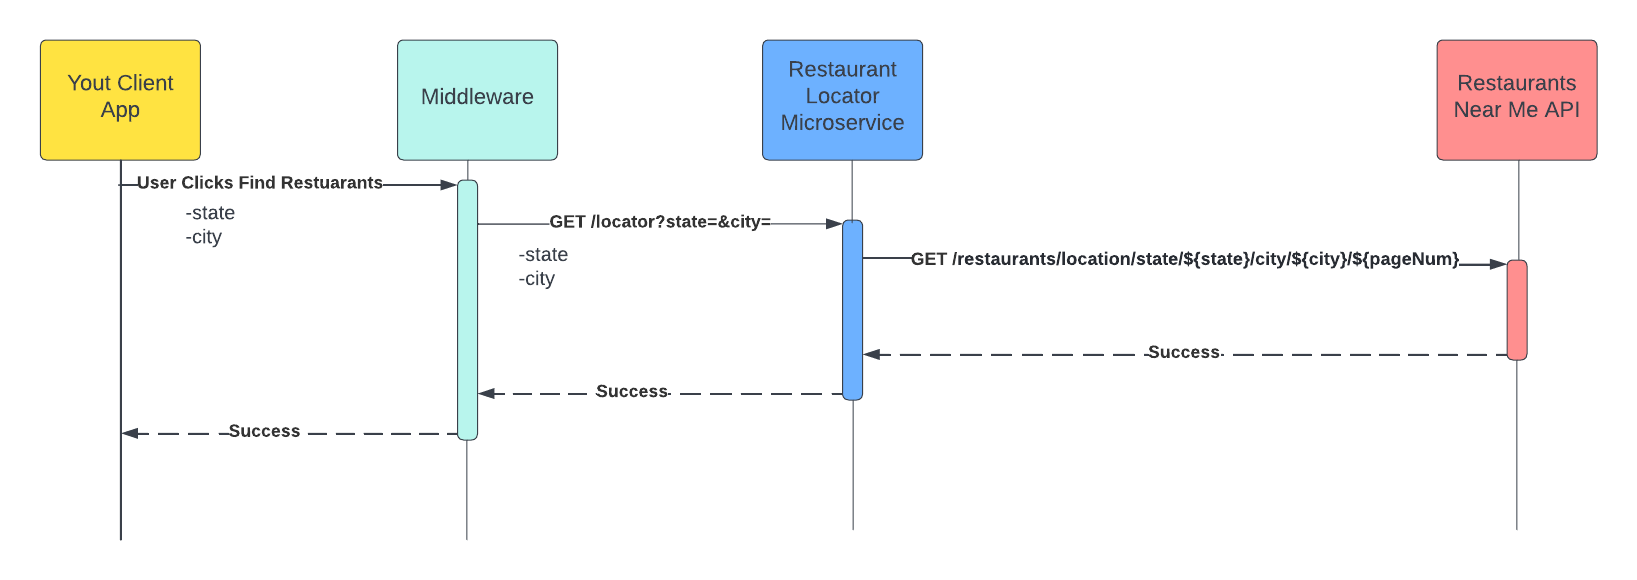
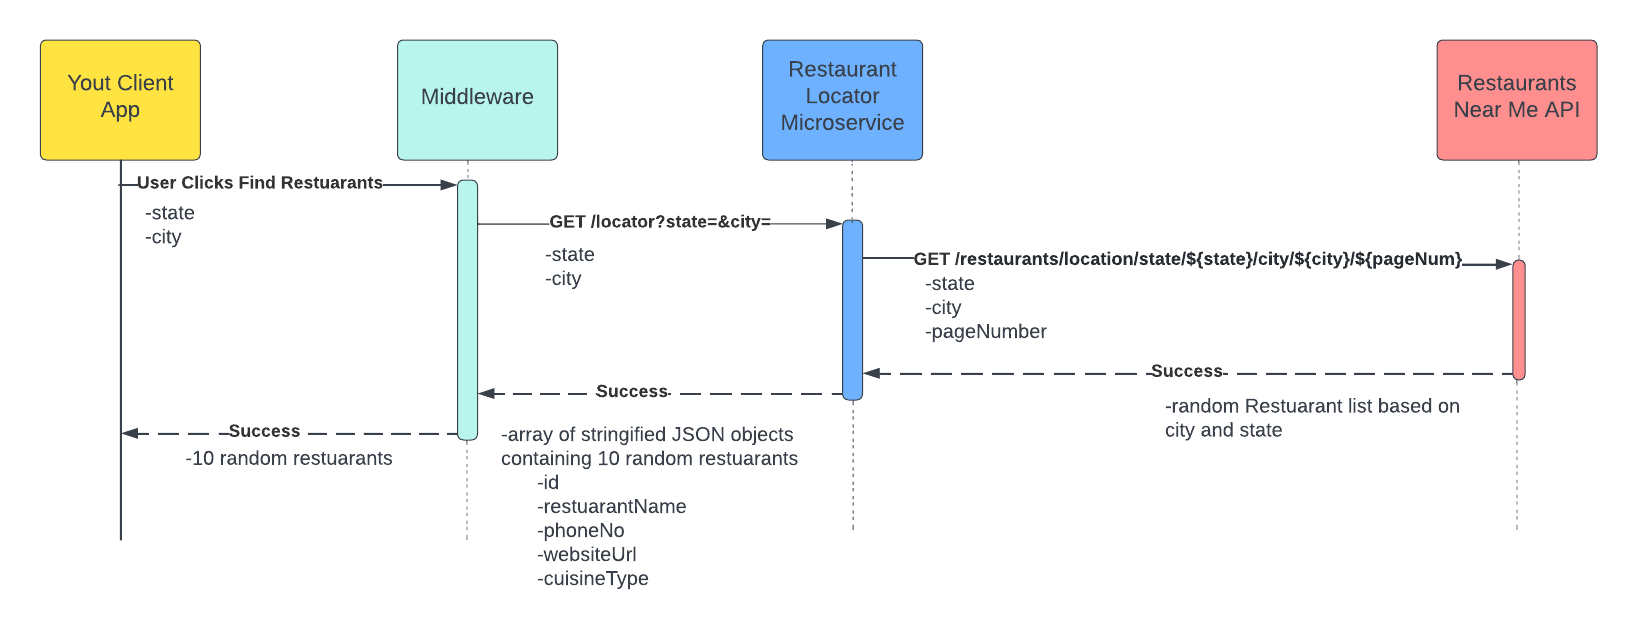
Added Error Checking
Send 500 error code to client on fail. Added an additional call to first get the number of possible restaurant results before calculating a random page to retrieve.

diff --git a/routes/locator.js b/routes/locator.js
@@ -5,7 +5,8 @@ const axios = require('axios');
 router.get('/', async (req, res, next) => {
   const state = req.query.state;
   const city = req.query.city;
-  var pageNumber = 0; //initially pull 1st page to get number of results for randomization
+  var pageNumber = 0; //initially pull 1st page to get number of results for randomization **COMMENT OUT FOR ONLY DES MOINES**
+  // var pageNumber = Math.floor(Math.random() * 50); //currently 492 results in Des Moines **UNCOMMENT FOR ONLY DESMOINES**
 
   const options = {
     method: 'GET',
@@ -16,7 +17,7 @@ router.get('/', async (req, res, next) => {
     }
   };
 
-  // first call to RapidAPI to get the number of possible results
+  // first request to RapidAPI to get the number of possible results **COMMENT OUT FOR ONLY DES MOINES**
   try {
     response = await axios.request(options);
     // get a random page number based on the number of results returned
@@ -26,8 +27,10 @@ router.get('/', async (req, res, next) => {
     res.status(500).send("Server Error, please try again");
   }
 
-  //update the url with the random page number
+  // update the url with the random page number **COMMENT OUT FOR ONLY DES MOINES**
   options.url = `https://restaurants-near-me-usa.p.rapidapi.com/restaurants/location/state/${state}/city/${city}/${pageNumber}`;
+  
+  // Request to get restuarant location
   try {
     response = await axios.request(options);
     console.log("RapidAPI Response: " + JSON.stringify(response.data) + '/n');
@@ -46,6 +49,8 @@ router.get('/', async (req, res, next) => {
 });
 
 module.exports = router;
+
+
 
 // Results of Des Moines API call page 0 for testing
 const testData = {

diff --git a/README.md b/README.md
@@ -10,6 +10,8 @@ The application was created using Express Application Generator
 
 `routes/locator.js` contains the handling for requests
 
+`.env` add to route folder with API_KEY variable for use with RapidAPI
+
 It uses `package.json` defines run commands
 
 ## Install
